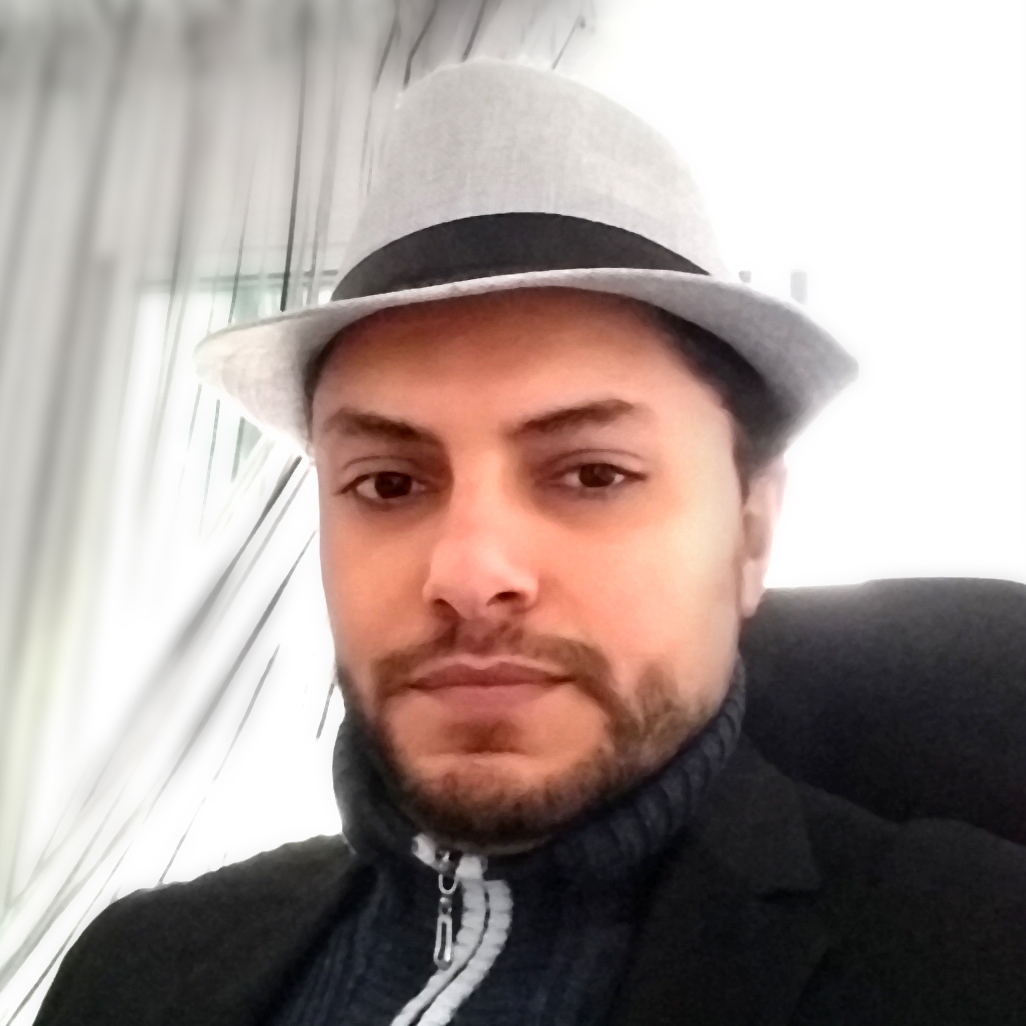
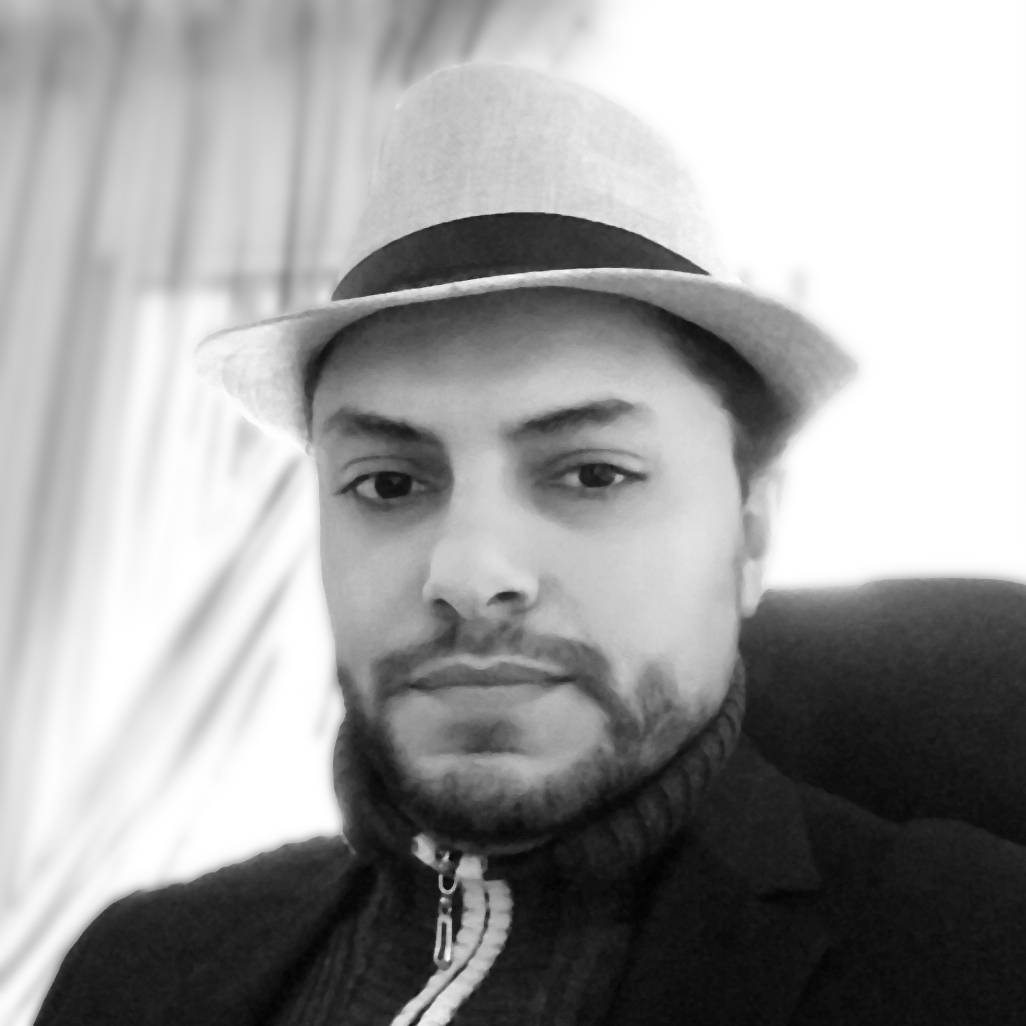
profile picture

diff --git a/index.html b/index.html
@@ -2100,7 +2100,7 @@
     <section id="about">
         <h2 class="section-title" data-i18n="about.title">About the Founder</h2>
         <div class="about-container">
-            <img src="https://images.unsplash.com/photo-1560250097-0b93528c311a?ixlib=rb-4.0.3&ixid=M3wxMjA3fDB8MHxwaG90by1wYWdlfHx8fGVufDB8fHx8fA%3D%3D&auto=format&fit=crop&w=987&q=80" alt="Wassef Ben Slimane" class="about-img">
+            <img src="profil.jpg" alt="Wassef Ben Slimane" class="about-img">
             <div class="about-text">
                 <h3 data-i18n="about.name">Wassef Ben Slimane</h3>
                 <p data-i18n="about.desc1">
